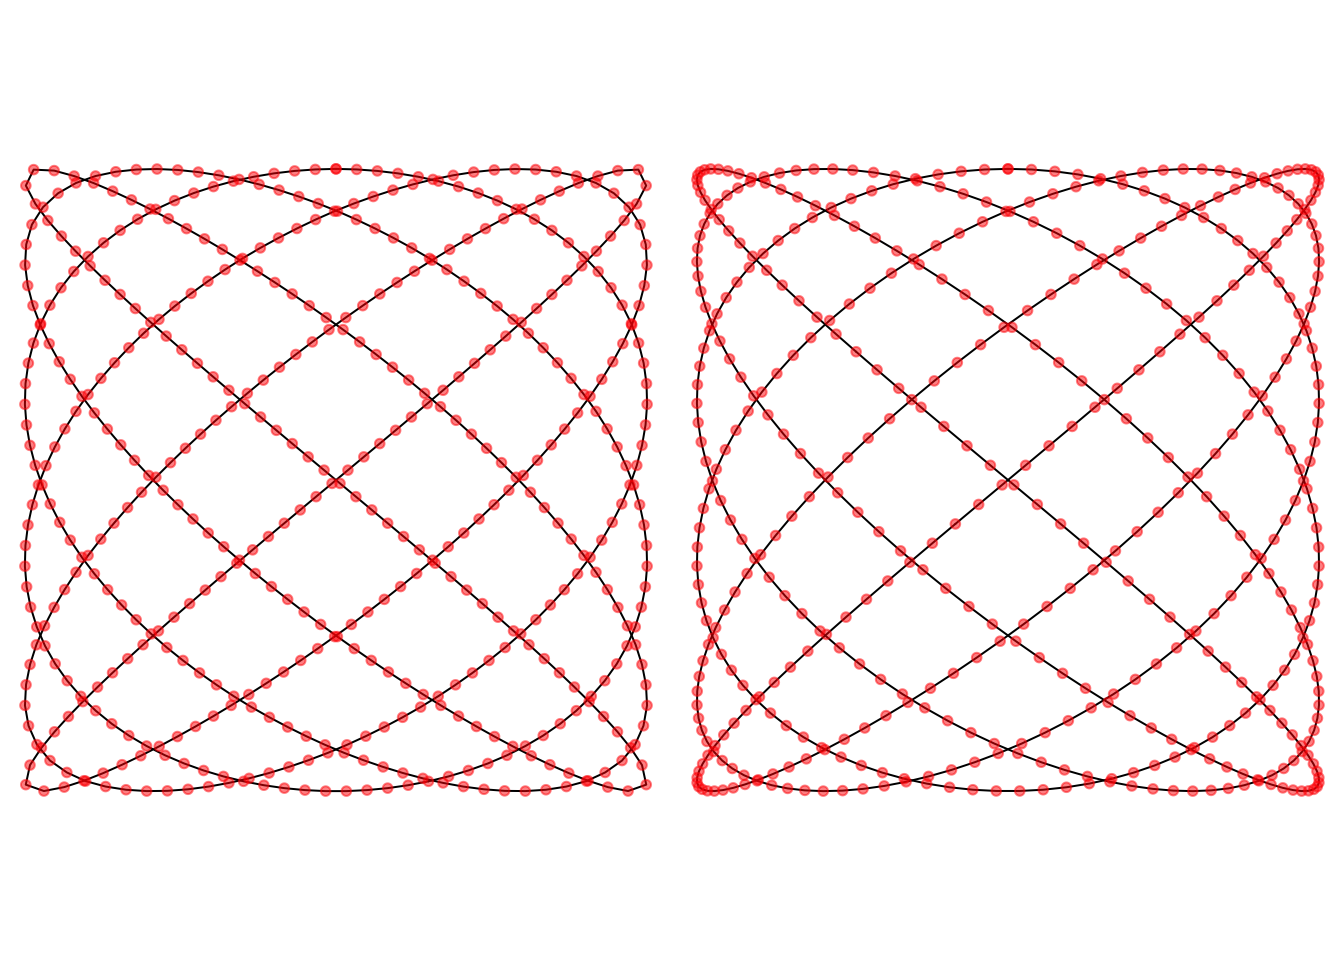
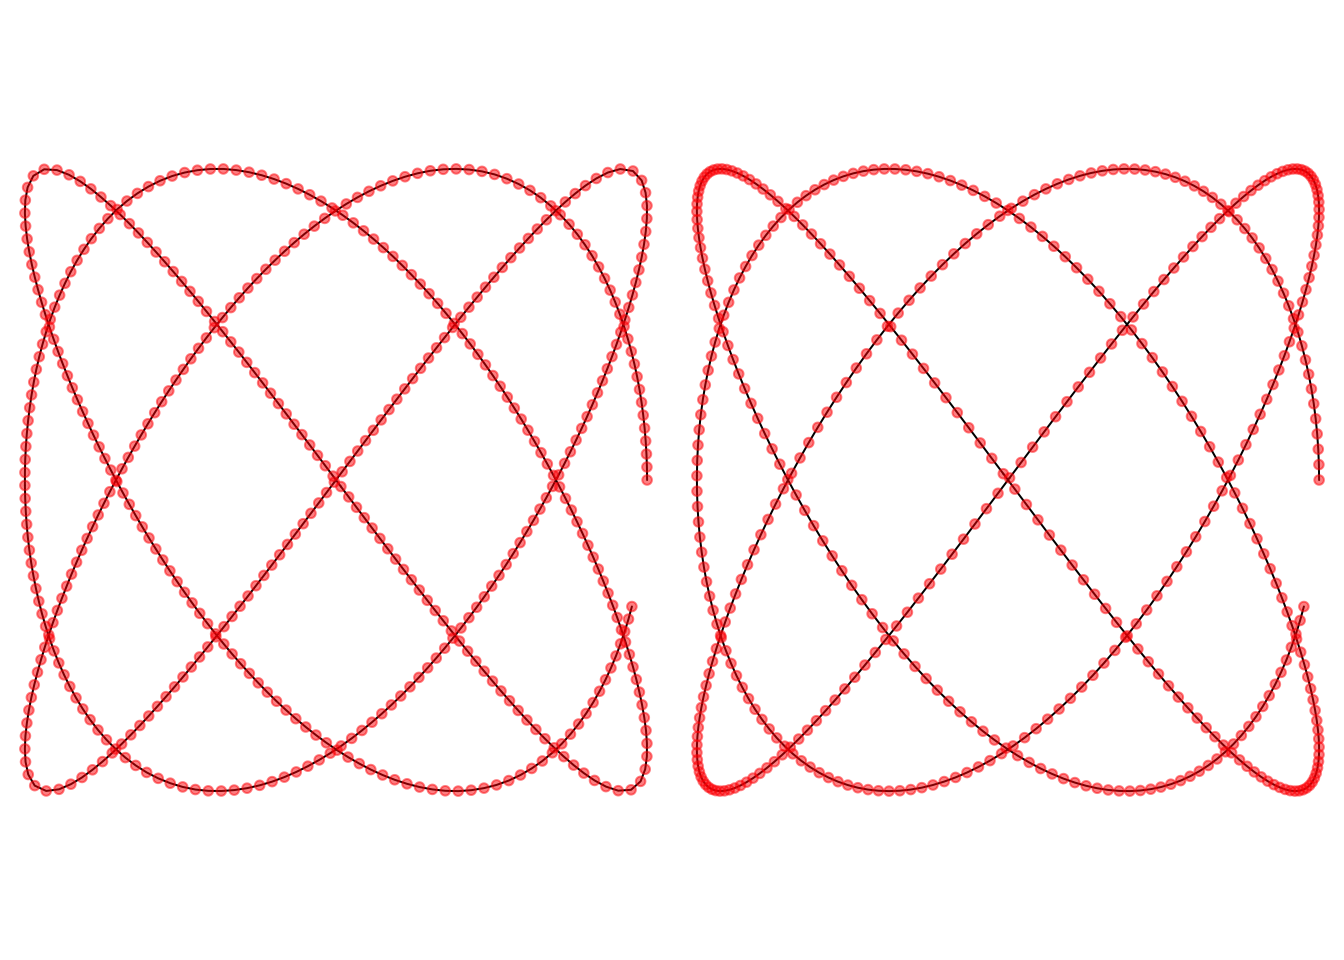
updated mathematical functions

diff --git a/content/post/2024-02-25-/index.md b/content/post/2024-02-25-/index.md
@@ -9,12 +9,18 @@ categories:
 This post is to keep track of some functions of mine that I find useful in making mathematical art.
 
 # Harmonica
-I call this one _harmonica_ as it is based on a harmongraph.
+I call this one _harmonica_ as it is based on a harmonagraph.
 
 ```r
-thetas = seq(0,1,length=1000)*48*pi
-par(pty='s',ann=F,mai=0*c(1,1,1,1))
-plot(cos(thetas),sin(23*thetas/24),typ='l',axes=FALSE)
+harmonica = function(NNN=1000,waves=23, ratio=24/23) {
+thetas = seq(0,1,length=NNN)*2*pi*waves
+return(cbind(cos(thetas),sin(ratio*thetas)))
+}
+par(pty='s',ann=F,mai=0*c(1,1,1,1), mfrow=c(2,2))
+plot(harmonica(ratio=1,waves=.95),typ='l',axes=FALSE)
+plot(harmonica(ratio=4/3,waves = 2.95),typ='l',axes=FALSE)
+plot(harmonica(ratio=8/7,waves = 6.95),typ='l',axes=FALSE)
+plot(harmonica(waves=22.95),typ='l',axes=FALSE)
 ```
 
 <img src="{{< blogdown/postref >}}index_files/figure-html/unnamed-chunk-1-1.png" width="672" />
@@ -33,12 +39,11 @@ traveled = function(xy){
   return(traveled)}
 
 #Example:
-NNN=500
-thetas = seq(0,1,length=NNN)*12*pi
-xy0 = 1*cbind(sin(thetas),cos(thetas*5/6) )
+NNN0=500
+xy0 = harmonica(NNN=NNN0,ratio=4/3,waves=2.95)
 travel = traveled(xy0)
-xy = cbind(approx(travel,xy0[,1],seq(0,1,length=NNN),rule=2)[[2]],
-           approx(travel,xy0[,2],seq(0,1,length=NNN),rule=2)[[2]])
+xy = cbind(approx(travel,xy0[,1],seq(0,1,length=NNN0),rule=2)[[2]],
+           approx(travel,xy0[,2],seq(0,1,length=NNN0),rule=2)[[2]])
 
 par(pty='s',ann=F,mai=0*c(1,1,1,1),mfrow=c(1,2))
 plot(xy,typ='l',axes=F)
